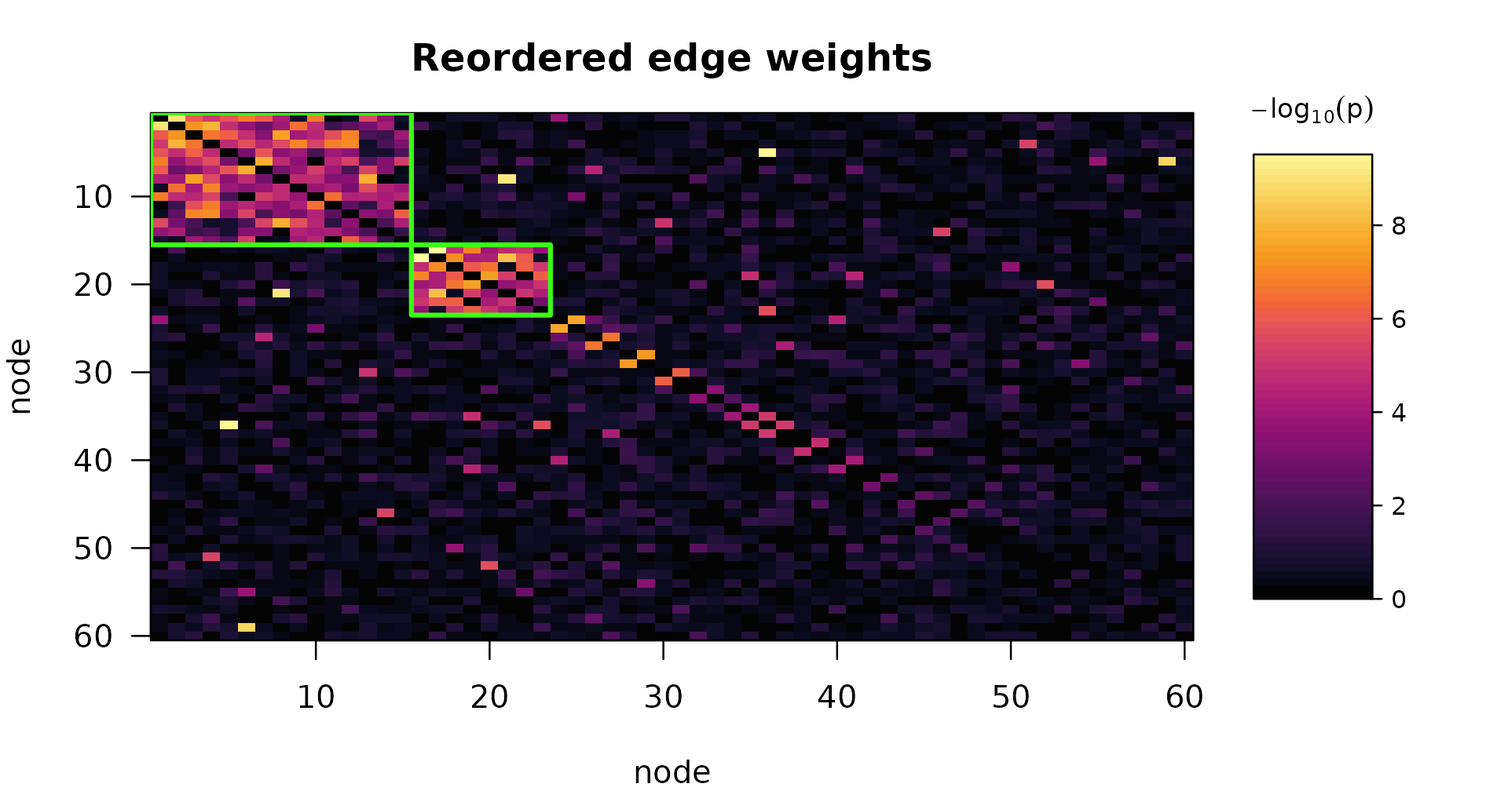
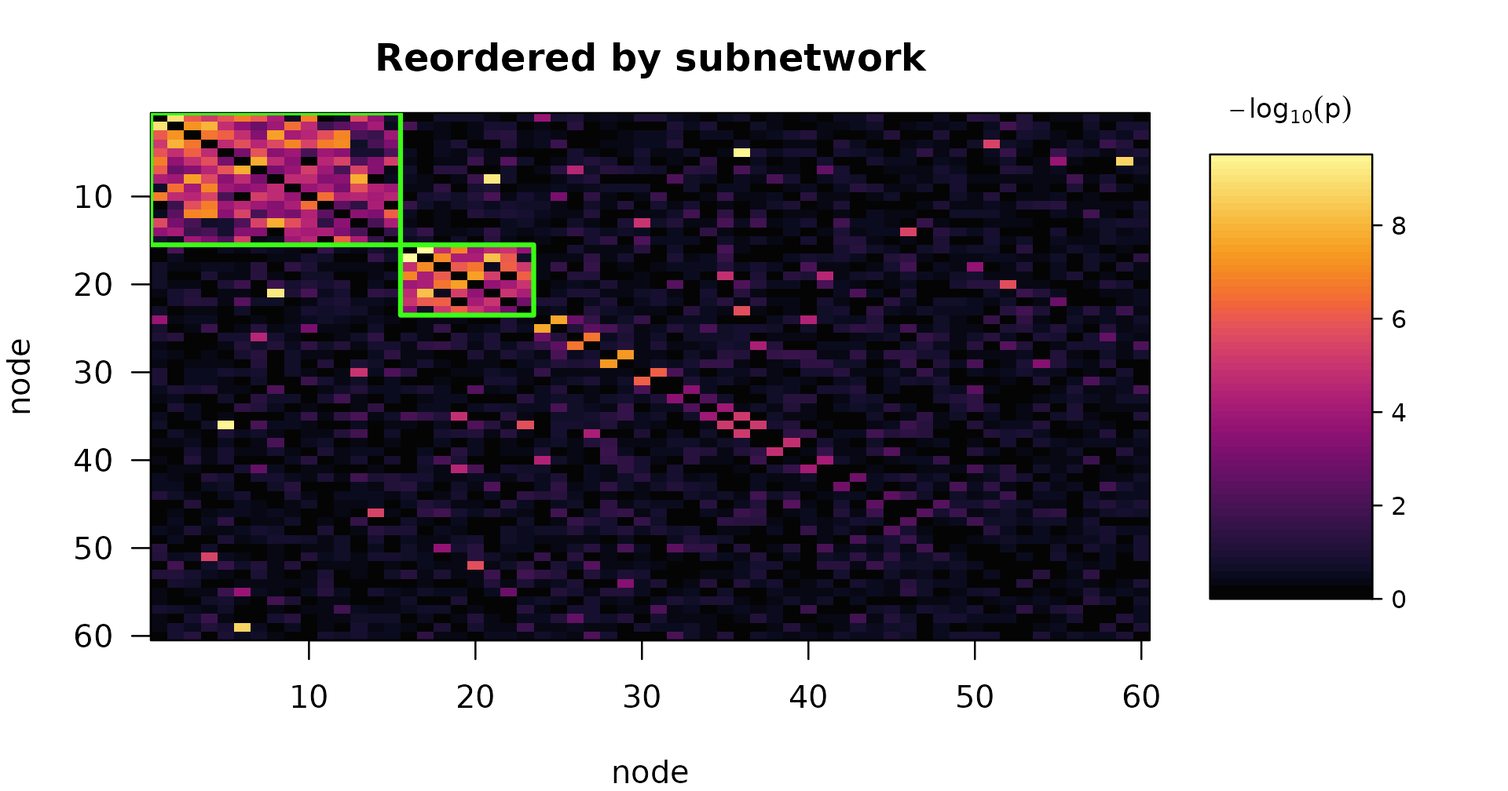
Deploying to gh-pages from @ xavienzo/subnetr@4ed9f8c28762aee49a06b0b4a5fa16c15d8a3be4 🚀

diff --git a/reference/plot.subnet.html b/reference/plot.subnet.html
@@ -1,11 +1,9 @@
 <!DOCTYPE html>
-<!-- Generated by pkgdown: do not edit by hand --><html lang="en"><head><meta http-equiv="Content-Type" content="text/html; charset=UTF-8"><meta charset="utf-8"><meta http-equiv="X-UA-Compatible" content="IE=edge"><meta name="viewport" content="width=device-width, initial-scale=1, shrink-to-fit=no"><title>Plot the reordered connectivity matrix — plot.subnet • subnetr</title><script src="../deps/jquery-3.6.0/jquery-3.6.0.min.js"></script><meta name="viewport" content="width=device-width, initial-scale=1, shrink-to-fit=no"><link href="../deps/bootstrap-5.3.8/bootstrap.min.css" rel="stylesheet"><script src="../deps/bootstrap-5.3.8/bootstrap.bundle.min.js"></script><link href="../deps/font-awesome-6.5.2/css/all.min.css" rel="stylesheet"><link href="../deps/font-awesome-6.5.2/css/v4-shims.min.css" rel="stylesheet"><script src="../deps/headroom-0.11.0/headroom.min.js"></script><script src="../deps/headroom-0.11.0/jQuery.headroom.min.js"></script><script src="../deps/bootstrap-toc-1.0.1/bootstrap-toc.min.js"></script><script src="../deps/clipboard.js-2.0.11/clipboard.min.js"></script><script src="../deps/search-1.0.0/autocomplete.jquery.min.js"></script><script src="../deps/search-1.0.0/fuse.min.js"></script><script src="../deps/search-1.0.0/mark.min.js"></script><!-- pkgdown --><script src="../pkgdown.js"></script><meta property="og:title" content="Plot the reordered connectivity matrix — plot.subnet"><meta name="description" content="Draws the edge-weight matrix with nodes reordered so that the extracted
-subnetworks sit in consecutive blocks along the diagonal, and outlines the
-significant blocks. This is the plot to look at when judging whether a
-detection is a compact subnetwork or a diffuse smear."><meta property="og:description" content="Draws the edge-weight matrix with nodes reordered so that the extracted
-subnetworks sit in consecutive blocks along the diagonal, and outlines the
-significant blocks. This is the plot to look at when judging whether a
-detection is a compact subnetwork or a diffuse smear."></head><body>
+<!-- Generated by pkgdown: do not edit by hand --><html lang="en"><head><meta http-equiv="Content-Type" content="text/html; charset=UTF-8"><meta charset="utf-8"><meta http-equiv="X-UA-Compatible" content="IE=edge"><meta name="viewport" content="width=device-width, initial-scale=1, shrink-to-fit=no"><title>Plot the connectivity matrix — plot.subnet • subnetr</title><script src="../deps/jquery-3.6.0/jquery-3.6.0.min.js"></script><meta name="viewport" content="width=device-width, initial-scale=1, shrink-to-fit=no"><link href="../deps/bootstrap-5.3.8/bootstrap.min.css" rel="stylesheet"><script src="../deps/bootstrap-5.3.8/bootstrap.bundle.min.js"></script><link href="../deps/font-awesome-6.5.2/css/all.min.css" rel="stylesheet"><link href="../deps/font-awesome-6.5.2/css/v4-shims.min.css" rel="stylesheet"><script src="../deps/headroom-0.11.0/headroom.min.js"></script><script src="../deps/headroom-0.11.0/jQuery.headroom.min.js"></script><script src="../deps/bootstrap-toc-1.0.1/bootstrap-toc.min.js"></script><script src="../deps/clipboard.js-2.0.11/clipboard.min.js"></script><script src="../deps/search-1.0.0/autocomplete.jquery.min.js"></script><script src="../deps/search-1.0.0/fuse.min.js"></script><script src="../deps/search-1.0.0/mark.min.js"></script><!-- pkgdown --><script src="../pkgdown.js"></script><meta property="og:title" content="Plot the connectivity matrix — plot.subnet"><meta name="description" content="Draws the edge-weight matrix, optionally with nodes reordered so that the
+extracted subnetworks sit in consecutive blocks along the diagonal, and
+outlines the significant blocks."><meta property="og:description" content="Draws the edge-weight matrix, optionally with nodes reordered so that the
+extracted subnetworks sit in consecutive blocks along the diagonal, and
+outlines the significant blocks."></head><body>
     <a href="#main" class="visually-hidden-focusable">Skip to contents</a>
 
 
@@ -39,16 +37,15 @@ detection is a compact subnetwork or a diffuse smear."></head><body>
 <div class="row">
   <main id="main" class="col-md-9"><div class="page-header">
 
-      <h1>Plot the reordered connectivity matrix</h1>
+      <h1>Plot the connectivity matrix</h1>
       <small class="dont-index">Source: <a href="https://github.com/xavienzo/subnetr/blob/main/R/methods.R" class="external-link"><code>R/methods.R</code></a></small>
       <div class="d-none name"><code>plot.subnet.Rd</code></div>
     </div>
 
     <div class="ref-description section level2">
-    <p>Draws the edge-weight matrix with nodes reordered so that the extracted
-subnetworks sit in consecutive blocks along the diagonal, and outlines the
-significant blocks. This is the plot to look at when judging whether a
-detection is a compact subnetwork or a diffuse smear.</p>
+    <p>Draws the edge-weight matrix, optionally with nodes reordered so that the
+extracted subnetworks sit in consecutive blocks along the diagonal, and
+outlines the significant blocks.</p>
     </div>
 
     <div class="section level2">
@@ -56,7 +53,7 @@ detection is a compact subnetwork or a diffuse smear.</p>
     <div class="sourceCode"><pre class="sourceCode r"><code><span><span class="co"># S3 method for class 'subnet'</span></span>
 <span><span class="fu"><a href="https://rdrr.io/r/graphics/plot.default.html" class="external-link">plot</a></span><span class="op">(</span></span>
 <span>  <span class="va">x</span>,</span>
-<span>  what <span class="op">=</span> <span class="fu"><a href="https://rdrr.io/r/base/c.html" class="external-link">c</a></span><span class="op">(</span><span class="st">"reordered"</span>, <span class="st">"observed"</span><span class="op">)</span>,</span>
+<span>  what <span class="op">=</span> <span class="fu"><a href="https://rdrr.io/r/base/c.html" class="external-link">c</a></span><span class="op">(</span><span class="st">"reordered"</span>, <span class="st">"observed"</span>, <span class="st">"both"</span><span class="op">)</span>,</span>
 <span>  significant_only <span class="op">=</span> <span class="cn">TRUE</span>,</span>
 <span>  col <span class="op">=</span> <span class="fu">grDevices</span><span class="fu">::</span><span class="fu"><a href="https://rdrr.io/r/grDevices/palettes.html" class="external-link">hcl.colors</a></span><span class="op">(</span><span class="fl">64</span>, <span class="st">"Inferno"</span><span class="op">)</span>,</span>
 <span>  main <span class="op">=</span> <span class="cn">NULL</span>,</span>
@@ -75,8 +72,8 @@ detection is a compact subnetwork or a diffuse smear.</p>
 
 
 <dt id="arg-what">what<a class="anchor" aria-label="anchor" href="#arg-what"></a></dt>
-<dd><p><code>"reordered"</code> (default) or <code>"observed"</code> for the matrix in its
-original node order.</p></dd>
+<dd><p><code>"reordered"</code> (default), <code>"observed"</code> for the original node
+order, or <code>"both"</code> for the two side by side.</p></dd>
 
 
 <dt id="arg-significant-only">significant_only<a class="anchor" aria-label="anchor" href="#arg-significant-only"></a></dt>
@@ -88,7 +85,7 @@ original node order.</p></dd>
 
 
 <dt id="arg-main">main<a class="anchor" aria-label="anchor" href="#arg-main"></a></dt>
-<dd><p>Plot title.</p></dd>
+<dd><p>Panel title, or a vector of two when <code>what = "both"</code>.</p></dd>
 
 
 <dt id="arg-weight-label">weight_label<a class="anchor" aria-label="anchor" href="#arg-weight-label"></a></dt>
@@ -111,7 +108,13 @@ original node order.</p></dd>
     </div>
     <div class="section level2">
     <h2 id="details">Details<a class="anchor" aria-label="anchor" href="#details"></a></h2>
-    <p>The colour scale is labelled with the quantity being displayed. When <code>W</code>
+    <p><code>what = "both"</code> puts the matrix as measured next to the reordered version,
+sharing one colour scale. That pairing is the honest way to present a
+result: a subnetwork is invisible in the original node ordering and obvious
+after reordering, and showing only the second panel can make an arbitrary
+permutation look like a discovery. Comparing the two is also how you judge
+whether a detection is a compact block or a diffuse smear.</p>
+<p>The colour scale is labelled with the quantity being displayed. When <code>W</code>
 came from <code><a href="edge_stats.html">edge_stats()</a></code> or <code><a href="simulate_fc.html">simulate_fc()</a></code> that label is carried along with
 the matrix, so the figure states whether it is showing \(-\log_{10}\) p,
 a t statistic, or something else. Supply <code>weight_label</code> for matrices built
@@ -123,12 +126,15 @@ by other means.</p>
     <div class="sourceCode"><pre class="sourceCode r"><code><span class="r-in"><span><span class="va">sim</span> <span class="op">&lt;-</span> <span class="fu"><a href="simulate_fc.html">simulate_fc</a></span><span class="op">(</span>n <span class="op">=</span> <span class="fl">120</span>, n_nodes <span class="op">=</span> <span class="fl">60</span>, cluster_size <span class="op">=</span> <span class="fl">12</span>, f2 <span class="op">=</span> <span class="fl">0.2</span>,</span></span>
 <span class="r-in"><span>                   seed <span class="op">=</span> <span class="fl">11</span><span class="op">)</span></span></span>
 <span class="r-in"><span><span class="va">fit</span> <span class="op">&lt;-</span> <span class="fu"><a href="subnet.html">subnet</a></span><span class="op">(</span><span class="va">sim</span><span class="op">$</span><span class="va">W</span>, n_perm <span class="op">=</span> <span class="fl">99</span>, seed <span class="op">=</span> <span class="fl">1</span><span class="op">)</span></span></span>
-<span class="r-in"><span><span class="fu"><a href="https://rdrr.io/r/graphics/plot.default.html" class="external-link">plot</a></span><span class="op">(</span><span class="va">fit</span><span class="op">)</span></span></span>
+<span class="r-in"><span></span></span>
+<span class="r-in"><span><span class="fu"><a href="https://rdrr.io/r/graphics/plot.default.html" class="external-link">plot</a></span><span class="op">(</span><span class="va">fit</span><span class="op">)</span>                  <span class="co"># reordered only</span></span></span>
 <span class="r-plt img"><img src="plot.subnet-1.png" alt="" width="700" height="433"></span>
+<span class="r-in"><span><span class="fu"><a href="https://rdrr.io/r/graphics/plot.default.html" class="external-link">plot</a></span><span class="op">(</span><span class="va">fit</span>, what <span class="op">=</span> <span class="st">"both"</span><span class="op">)</span>   <span class="co"># as measured, next to reordered</span></span></span>
+<span class="r-plt img"><img src="plot.subnet-2.png" alt="" width="700" height="433"></span>
 <span class="r-in"><span></span></span>
 <span class="r-in"><span><span class="co"># A matrix of t statistics from a real study labels itself accordingly</span></span></span>
 <span class="r-in"><span><span class="fu"><a href="https://rdrr.io/r/graphics/plot.default.html" class="external-link">plot</a></span><span class="op">(</span><span class="va">fit</span>, weight_label <span class="op">=</span> <span class="st">"t statistic"</span><span class="op">)</span></span></span>
-<span class="r-plt img"><img src="plot.subnet-2.png" alt="" width="700" height="433"></span>
+<span class="r-plt img"><img src="plot.subnet-3.png" alt="" width="700" height="433"></span>
 <span class="r-in"><span></span></span>
 </code></pre></div>
     </div>

diff --git a/index.html b/index.html
@@ -107,13 +107,14 @@
 <h3 id="seeing-the-result">Seeing the result<a class="anchor" aria-label="anchor" href="#seeing-the-result"></a>
 </h3>
 <div class="sourceCode" id="cb4"><pre class="downlit sourceCode r">
-<code class="sourceCode R"><span><span class="fu"><a href="https://rdrr.io/r/graphics/plot.default.html" class="external-link">plot</a></span><span class="op">(</span><span class="va">fit</span><span class="op">)</span></span></code></pre></div>
+<code class="sourceCode R"><span><span class="fu"><a href="https://rdrr.io/r/graphics/plot.default.html" class="external-link">plot</a></span><span class="op">(</span><span class="va">fit</span>, what <span class="op">=</span> <span class="st">"both"</span><span class="op">)</span></span></code></pre></div>
 <div class="figure">
-<img src="reference/figures/README-heatmap-1.png" alt="Connectivity matrix with nodes reordered so detected subnetworks form diagonal blocks" width="100%"><p class="caption">
+<img src="reference/figures/README-heatmap-1.png" alt="Left: connectivity matrix in its original node order, showing no visible structure. Right: the same matrix reordered so the detected subnetwork forms an outlined block on the diagonal." width="100%"><p class="caption">
 plot of chunk heatmap
 </p>
 </div>
-<p>Nodes are reordered so that each extracted subnetwork occupies a contiguous block on the diagonal; significant blocks are outlined. The colour scale is labelled with the statistic being displayed — here <code>-log10(p)</code>, because that is what <code><a href="reference/edge_stats.html">edge_stats()</a></code> produced. Pass <code>weight_label</code> to set it yourself for a matrix built by other means.</p>
+<p>On the left, the matrix as measured: the subnetwork is there, but scattered across arbitrary node indices and invisible. On the right, the same numbers with nodes reordered so each extracted subnetwork occupies a contiguous block on the diagonal; significant blocks are outlined. Both panels share one colour scale, labelled with the statistic being displayed — here <code>-log10(p)</code>, because that is what <code><a href="reference/edge_stats.html">edge_stats()</a></code> produced. Pass <code>weight_label</code> to set it yourself for a matrix built by other means.</p>
+<p>Always look at both panels. Reordering is a permutation, and a permutation can make noise look organized; the comparison is what tells you whether the block is real. The permutation test is the formal version of that same check.</p>
 <p>The node membership is available directly:</p>
 <div class="sourceCode" id="cb5"><pre class="downlit sourceCode r">
 <code class="sourceCode R"><span><span class="va">fit</span><span class="op">$</span><span class="va">subnetworks</span><span class="op">[[</span><span class="fl">1</span><span class="op">]</span><span class="op">]</span>        <span class="co"># node indices of the top subnetwork</span></span>
@@ -129,39 +130,39 @@ plot of chunk heatmap
 </h2>
 <p>How many subjects do you need? <code><a href="reference/power_curve.html">power_curve()</a></code> simulates the whole pipeline, permutation test included, across a grid of sample sizes.</p>
 <div class="sourceCode" id="cb6"><pre class="downlit sourceCode r">
-<code class="sourceCode R"><span><span class="va">pw</span> <span class="op">&lt;-</span> <span class="fu"><a href="reference/power_curve.html">power_curve</a></span><span class="op">(</span>n <span class="op">=</span> <span class="fu"><a href="https://rdrr.io/r/base/c.html" class="external-link">c</a></span><span class="op">(</span><span class="fl">40</span>, <span class="fl">60</span>, <span class="fl">80</span>, <span class="fl">120</span>, <span class="fl">160</span><span class="op">)</span>,</span>
-<span>                  n_nodes <span class="op">=</span> <span class="fl">80</span>, cluster_size <span class="op">=</span> <span class="fl">20</span>, f2 <span class="op">=</span> <span class="fl">0.06</span>,</span>
+<code class="sourceCode R"><span><span class="va">pw</span> <span class="op">&lt;-</span> <span class="fu"><a href="reference/power_curve.html">power_curve</a></span><span class="op">(</span>n <span class="op">=</span> <span class="fu"><a href="https://rdrr.io/r/base/c.html" class="external-link">c</a></span><span class="op">(</span><span class="fl">30</span>, <span class="fl">60</span>, <span class="fl">100</span>, <span class="fl">150</span>, <span class="fl">220</span><span class="op">)</span>,</span>
+<span>                  n_nodes <span class="op">=</span> <span class="fl">80</span>, cluster_size <span class="op">=</span> <span class="fl">15</span>, f2 <span class="op">=</span> <span class="fl">0.025</span>,</span>
 <span>                  n_sim <span class="op">=</span> <span class="fl">200</span>, n_perm <span class="op">=</span> <span class="fl">199</span>, seed <span class="op">=</span> <span class="fl">7</span>, progress <span class="op">=</span> <span class="cn">FALSE</span><span class="op">)</span></span>
 <span></span>
 <span><span class="va">pw</span></span>
 <span><span class="co">#&gt; Power analysis for subnetwork detection</span></span>
 <span><span class="co">#&gt; </span></span>
 <span><span class="co">#&gt;   nodes           : 80</span></span>
-<span><span class="co">#&gt;   planted subnets : 20 (sizes)</span></span>
-<span><span class="co">#&gt;   effect size f2  : 0.06</span></span>
+<span><span class="co">#&gt;   planted subnets : 15 (sizes)</span></span>
+<span><span class="co">#&gt;   effect size f2  : 0.025</span></span>
 <span><span class="co">#&gt;   rho_in / rho_out: 0.90 / 0.020</span></span>
 <span><span class="co">#&gt;   replicates      : 200   permutations: 199   alpha: 0.05</span></span>
 <span><span class="co">#&gt;   Dice cutoff     : 0.50</span></span>
 <span><span class="co">#&gt; </span></span>
 <span><span class="co">#&gt;    n         power      recovery  dice n_sig</span></span>
-<span><span class="co">#&gt;   40 0.955 (0.015) 0.955 (0.015) 0.816  0.96</span></span>
-<span><span class="co">#&gt;   60 1.000 (0.000) 1.000 (0.000) 0.938  1.00</span></span>
-<span><span class="co">#&gt;   80 1.000 (0.000) 1.000 (0.000) 0.976  1.00</span></span>
-<span><span class="co">#&gt;  120 1.000 (0.000) 1.000 (0.000) 0.993  1.00</span></span>
-<span><span class="co">#&gt;  160 1.000 (0.000) 1.000 (0.000) 0.997  1.00</span></span>
+<span><span class="co">#&gt;   30 0.065 (0.017) 0.020 (0.010) 0.024  0.06</span></span>
+<span><span class="co">#&gt;   60 0.155 (0.026) 0.125 (0.023) 0.096  0.16</span></span>
+<span><span class="co">#&gt;  100 0.605 (0.035) 0.595 (0.035) 0.488  0.60</span></span>
+<span><span class="co">#&gt;  150 0.955 (0.015) 0.955 (0.015) 0.853  0.96</span></span>
+<span><span class="co">#&gt;  220 1.000 (0.000) 1.000 (0.000) 0.960  1.00</span></span>
 <span><span class="co">#&gt; </span></span>
 <span><span class="co">#&gt; Power and recovery show the estimate with its Monte Carlo standard</span></span>
 <span><span class="co">#&gt; error in parentheses.</span></span>
 <span><span class="fu"><a href="https://rdrr.io/r/graphics/plot.default.html" class="external-link">plot</a></span><span class="op">(</span><span class="va">pw</span>, target <span class="op">=</span> <span class="fl">0.8</span><span class="op">)</span></span></code></pre></div>
 <div class="figure">
-<img src="reference/figures/README-power-1.png" alt="Power curves against sample size for any detection and for correct recovery" width="100%"><p class="caption">
+<img src="reference/figures/README-power-1.png" alt="Power curves against sample size, rising from near zero to one, for any detection and for correct recovery of the planted subnetwork" width="100%"><p class="caption">
 plot of chunk power
 </p>
 </div>
 <p>Two curves are reported because they answer different questions. <strong>Power</strong> is the chance of declaring <em>any</em> subnetwork significant. <strong>Recovery</strong> is the chance of finding one that actually overlaps the true subnetwork, at Sørensen–Dice ≥ <code>dice_cut</code>. Recovery is always the harder bar, and it is the one to quote when the scientific claim is about <em>which</em> regions are involved.</p>
 <div class="sourceCode" id="cb7"><pre class="downlit sourceCode r">
 <code class="sourceCode R"><span><span class="fu"><a href="reference/required_n.html">required_n</a></span><span class="op">(</span><span class="va">pw</span>, target <span class="op">=</span> <span class="fl">0.8</span><span class="op">)</span></span>
-<span><span class="co">#&gt; [1] 40</span></span></code></pre></div>
+<span><span class="co">#&gt; [1] 128.4722</span></span></code></pre></div>
 <p>Effect sizes are Cohen’s <code>f²</code> for a single edge. <code>rho_in</code> controls what fraction of the subnetwork’s edges actually carry the effect — real subnetworks are not uniformly affected, and the default of 0.9 is deliberately not 1.</p>
 </div>
 <div class="section level2">

diff --git a/reference/index.html b/reference/index.html
@@ -118,7 +118,7 @@
           <code><a href="plot.subnet.html">plot(<i>&lt;subnet&gt;</i>)</a></code>
 
         </dt>
-        <dd>Plot the reordered connectivity matrix</dd>
+        <dd>Plot the connectivity matrix</dd>
 
         <dt>
 

diff --git a/index.md b/index.md
@@ -78,21 +78,30 @@ every subnetwork the algorithm returned — do not adjust them again.
 
 ``` r
 
-plot(fit)
+plot(fit, what = "both")
 ```
 
-![Connectivity matrix with nodes reordered so detected subnetworks form
-diagonal blocks](reference/figures/README-heatmap-1.png)
+![Left: connectivity matrix in its original node order, showing no
+visible structure. Right: the same matrix reordered so the detected
+subnetwork forms an outlined block on the
+diagonal.](reference/figures/README-heatmap-1.png)
 
 plot of chunk heatmap
 
-Nodes are reordered so that each extracted subnetwork occupies a
-contiguous block on the diagonal; significant blocks are outlined. The
-colour scale is labelled with the statistic being displayed — here
-`-log10(p)`, because that is what
+On the left, the matrix as measured: the subnetwork is there, but
+scattered across arbitrary node indices and invisible. On the right, the
+same numbers with nodes reordered so each extracted subnetwork occupies
+a contiguous block on the diagonal; significant blocks are outlined.
+Both panels share one colour scale, labelled with the statistic being
+displayed — here `-log10(p)`, because that is what
 [`edge_stats()`](https://xavienzo.github.io/subnetr/reference/edge_stats.md)
 produced. Pass `weight_label` to set it yourself for a matrix built by
 other means.
+
+Always look at both panels. Reordering is a permutation, and a
+permutation can make noise look organized; the comparison is what tells
+you whether the block is real. The permutation test is the formal
+version of that same check.
 
 The node membership is available directly:
 
@@ -115,34 +124,35 @@ of sample sizes.
 
 ``` r
 
-pw <- power_curve(n = c(40, 60, 80, 120, 160),
-                  n_nodes = 80, cluster_size = 20, f2 = 0.06,
+pw <- power_curve(n = c(30, 60, 100, 150, 220),
+                  n_nodes = 80, cluster_size = 15, f2 = 0.025,
                   n_sim = 200, n_perm = 199, seed = 7, progress = FALSE)
 
 pw
 #> Power analysis for subnetwork detection
 #> 
 #>   nodes           : 80
-#>   planted subnets : 20 (sizes)
-#>   effect size f2  : 0.06
+#>   planted subnets : 15 (sizes)
+#>   effect size f2  : 0.025
 #>   rho_in / rho_out: 0.90 / 0.020
 #>   replicates      : 200   permutations: 199   alpha: 0.05
 #>   Dice cutoff     : 0.50
 #> 
 #>    n         power      recovery  dice n_sig
-#>   40 0.955 (0.015) 0.955 (0.015) 0.816  0.96
-#>   60 1.000 (0.000) 1.000 (0.000) 0.938  1.00
-#>   80 1.000 (0.000) 1.000 (0.000) 0.976  1.00
-#>  120 1.000 (0.000) 1.000 (0.000) 0.993  1.00
-#>  160 1.000 (0.000) 1.000 (0.000) 0.997  1.00
+#>   30 0.065 (0.017) 0.020 (0.010) 0.024  0.06
+#>   60 0.155 (0.026) 0.125 (0.023) 0.096  0.16
+#>  100 0.605 (0.035) 0.595 (0.035) 0.488  0.60
+#>  150 0.955 (0.015) 0.955 (0.015) 0.853  0.96
+#>  220 1.000 (0.000) 1.000 (0.000) 0.960  1.00
 #> 
 #> Power and recovery show the estimate with its Monte Carlo standard
 #> error in parentheses.
 plot(pw, target = 0.8)
 ```
 
-![Power curves against sample size for any detection and for correct
-recovery](reference/figures/README-power-1.png)
+![Power curves against sample size, rising from near zero to one, for
+any detection and for correct recovery of the planted
+subnetwork](reference/figures/README-power-1.png)
 
 plot of chunk power
 
@@ -156,7 +166,7 @@ about *which* regions are involved.
 ``` r
 
 required_n(pw, target = 0.8)
-#> [1] 40
+#> [1] 128.4722
 ```
 
 Effect sizes are Cohen’s `f²` for a single edge. `rho_in` controls what

diff --git a/reference/plot.subnet.md b/reference/plot.subnet.md
@@ -1,9 +1,8 @@
-# Plot the reordered connectivity matrix
+# Plot the connectivity matrix
 
-Draws the edge-weight matrix with nodes reordered so that the extracted
-subnetworks sit in consecutive blocks along the diagonal, and outlines
-the significant blocks. This is the plot to look at when judging whether
-a detection is a compact subnetwork or a diffuse smear.
+Draws the edge-weight matrix, optionally with nodes reordered so that
+the extracted subnetworks sit in consecutive blocks along the diagonal,
+and outlines the significant blocks.
 
 ## Usage
 
@@ -11,7 +10,7 @@ a detection is a compact subnetwork or a diffuse smear.
 # S3 method for class 'subnet'
 plot(
   x,
-  what = c("reordered", "observed"),
+  what = c("reordered", "observed", "both"),
   significant_only = TRUE,
   col = grDevices::hcl.colors(64, "Inferno"),
   main = NULL,
@@ -29,8 +28,8 @@ plot(
 
 - what:
 
-  `"reordered"` (default) or `"observed"` for the matrix in its original
-  node order.
+  `"reordered"` (default), `"observed"` for the original node order, or
+  `"both"` for the two side by side.
 
 - significant_only:
 
@@ -42,7 +41,7 @@ plot(
 
 - main:
 
-  Plot title.
+  Panel title, or a vector of two when `what = "both"`.
 
 - weight_label:
 
@@ -66,6 +65,14 @@ plot(
 
 ## Details
 
+`what = "both"` puts the matrix as measured next to the reordered
+version, sharing one colour scale. That pairing is the honest way to
+present a result: a subnetwork is invisible in the original node
+ordering and obvious after reordering, and showing only the second panel
+can make an arbitrary permutation look like a discovery. Comparing the
+two is also how you judge whether a detection is a compact block or a
+diffuse smear.
+
 The colour scale is labelled with the quantity being displayed. When `W`
 came from
 [`edge_stats()`](https://xavienzo.github.io/subnetr/reference/edge_stats.md)
@@ -81,7 +88,10 @@ else. Supply `weight_label` for matrices built by other means.
 sim <- simulate_fc(n = 120, n_nodes = 60, cluster_size = 12, f2 = 0.2,
                    seed = 11)
 fit <- subnet(sim$W, n_perm = 99, seed = 1)
-plot(fit)
+
+plot(fit)                  # reordered only
+
+plot(fit, what = "both")   # as measured, next to reordered
 
 
 # A matrix of t statistics from a real study labels itself accordingly

diff --git a/reference/index.md b/reference/index.md
@@ -28,7 +28,7 @@ Sizing a study before you run it.
 ## Inspecting results
 
 - [`plot(`*`<subnet>`*`)`](https://xavienzo.github.io/subnetr/reference/plot.subnet.md)
-  : Plot the reordered connectivity matrix
+  : Plot the connectivity matrix
 - [`plot(`*`<subnet_power>`*`)`](https://xavienzo.github.io/subnetr/reference/plot.subnet_power.md)
   : Plot a power curve
 - [`as.data.frame(`*`<subnet>`*`)`](https://xavienzo.github.io/subnetr/reference/as.data.frame.subnet.md)
